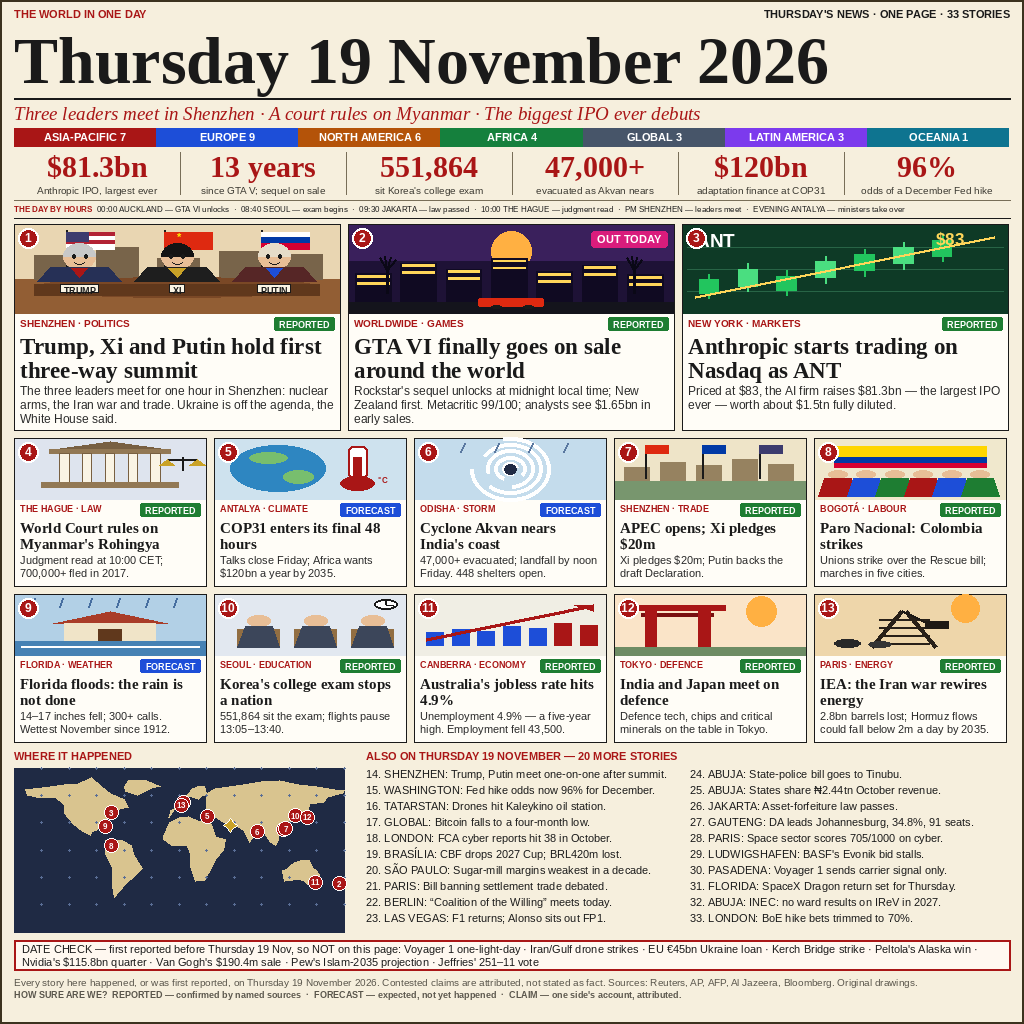
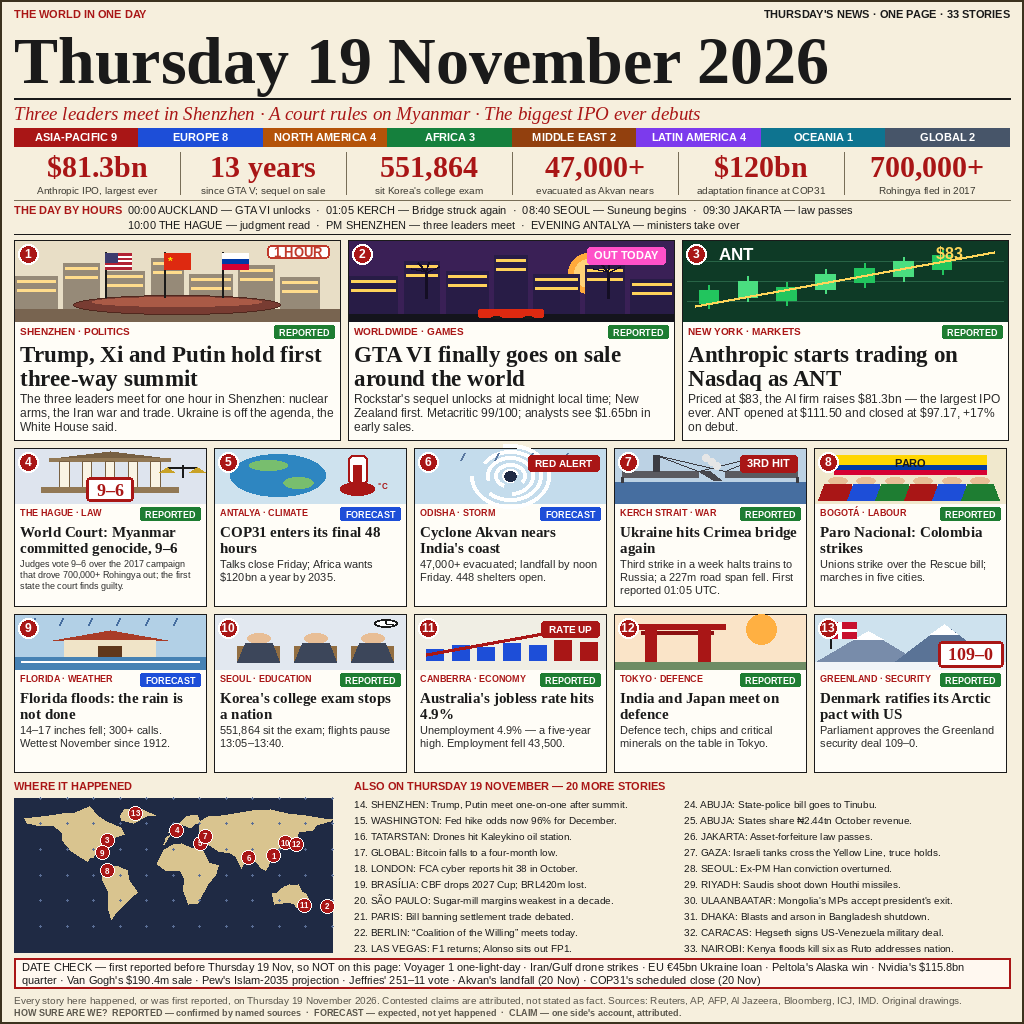
news-image-20261119 v6: ICJ 9-6, Kerch third strike, ANT close $97.17; 33 stories

diff --git a/main.py b/main.py
@@ -1,23 +1,42 @@
-"""news-image-20261119: copy the pre-rendered entry image to the output."""
-# Stdlib-only entry: copy the pre-rendered entry.png to the output directory.
+"""news-image-20261119 v6: place the pre-rendered entry image in the output.
+
+Stdlib-only launcher. It finds entry.png next to this file and copies it
+to MAKEFUN_OUTPUT_DIR (falling back to /output when that directory exists,
+otherwise to this file's own directory). No rendering happens here.
+"""
 import os
 import shutil
 
+IMAGE = "entry.png"
 
-def main():
+
+def _pick_destination(folder):
+    """Return the full path of the image inside `folder`."""
+    return os.path.join(folder, IMAGE)
+
+
+def _output_folder(here):
+    wanted = os.environ.get("MAKEFUN_OUTPUT_DIR", "").strip()
+    if wanted:
+        return wanted
+    if os.path.isdir("/output"):
+        return "/output"
+    return here
+
+
+def run():
     here = os.path.dirname(os.path.abspath(__file__))
-    src = os.path.join(here, "entry.png")
-    out_dir = os.environ.get("MAKEFUN_OUTPUT_DIR")
-    if not out_dir:
-        out_dir = "/output" if os.path.isdir("/output") else here
-    os.makedirs(out_dir, exist_ok=True)
-    dst = os.path.join(out_dir, "entry.png")
-    if os.path.abspath(src) == os.path.abspath(dst):
-        print("already in place:", dst)
-        return
-    shutil.copyfile(src, dst)
-    print("saved", dst)
+    source = _pick_destination(here)
+    folder = _output_folder(here)
+    os.makedirs(folder, exist_ok=True)
+    target = _pick_destination(folder)
+    if os.path.abspath(source) == os.path.abspath(target):
+        print("already in place:", target)
+        return 0
+    shutil.copyfile(source, target)
+    print("wrote", target)
+    return 0
 
 
 if __name__ == "__main__":
-    main()
+    raise SystemExit(run())
